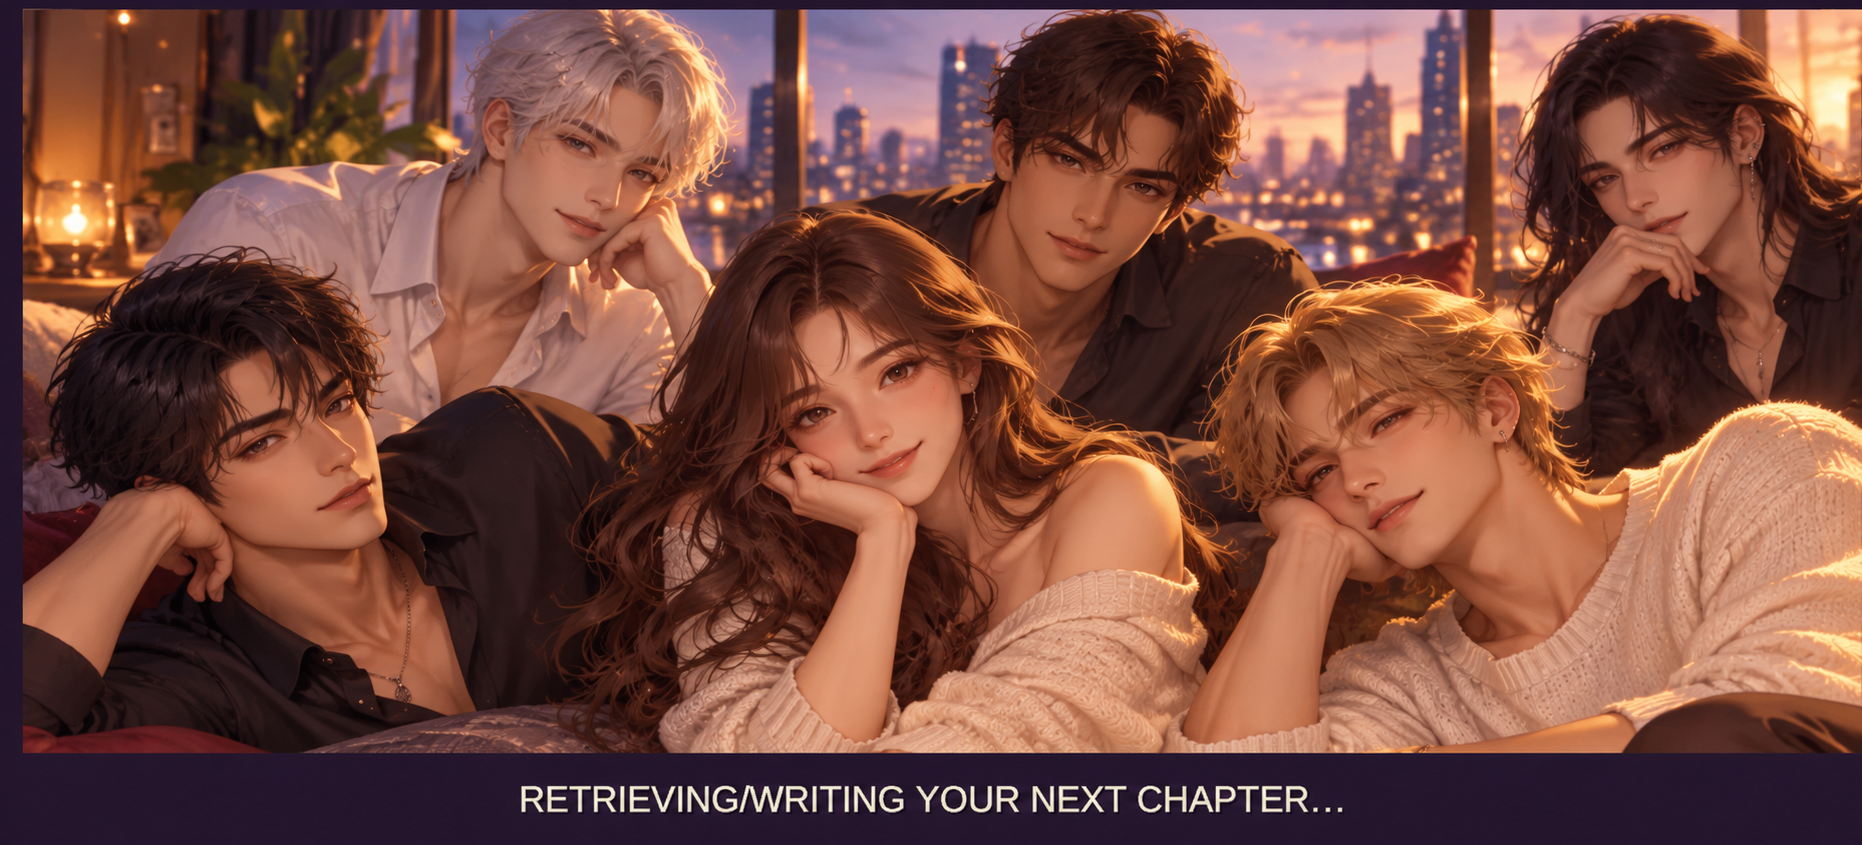
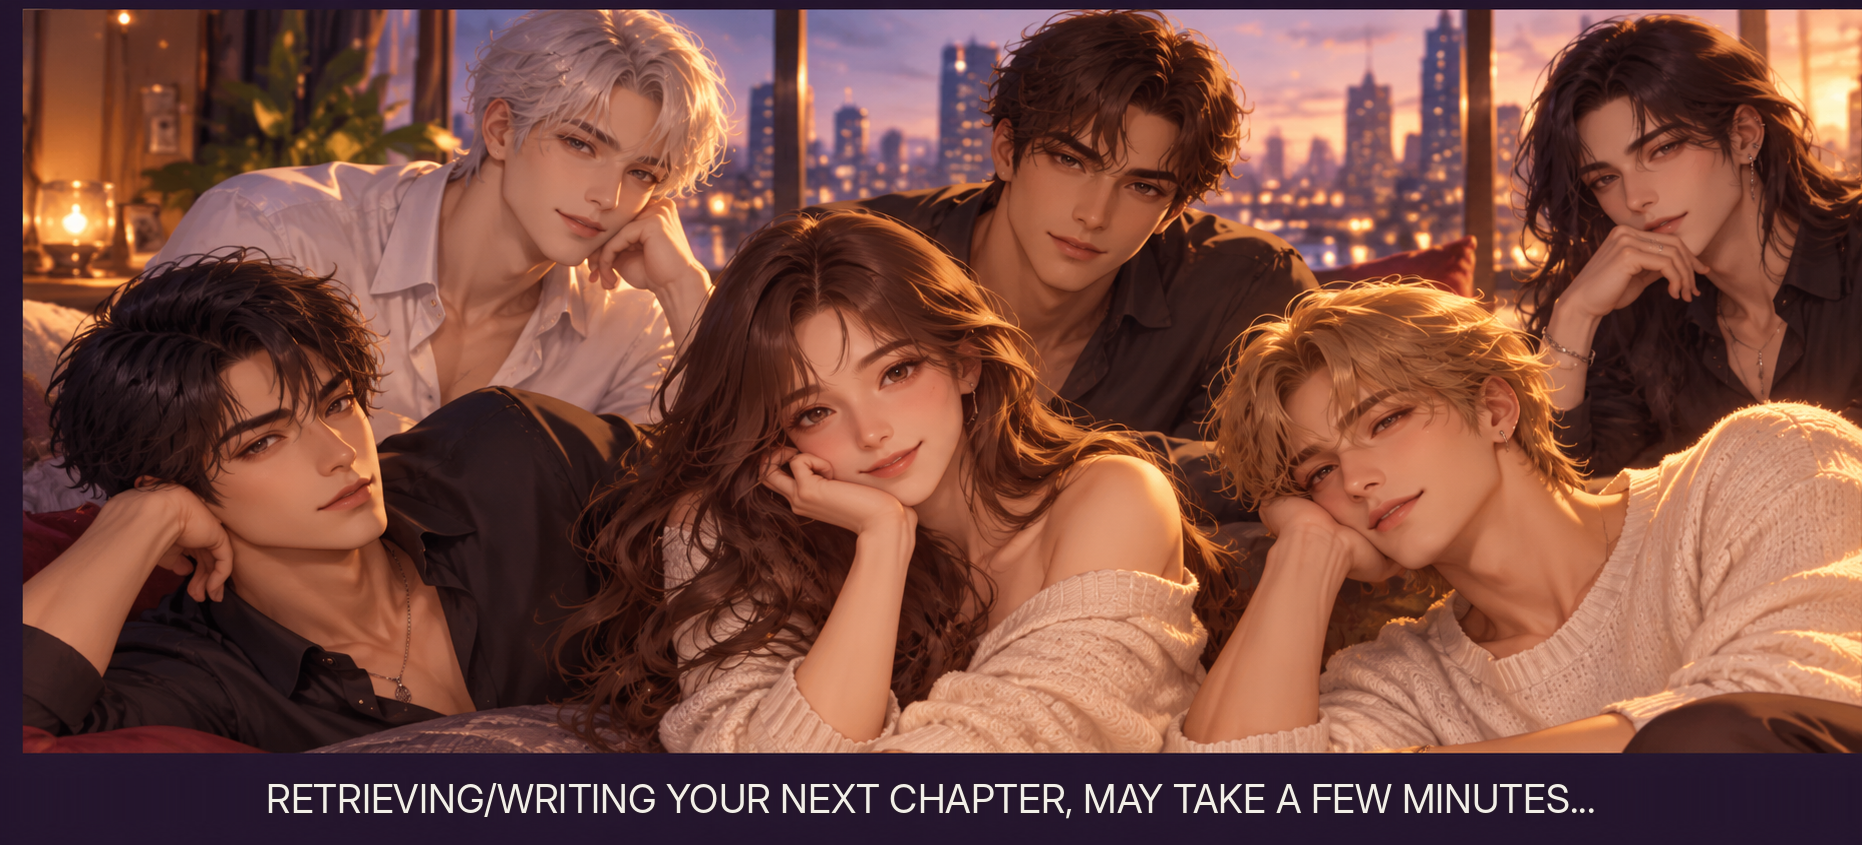
Pre Redesign

Changed region(s): [[0.1246, 0.9231, 0.841, 0.9846]]

diff --git a/Assets/Scripts/RomanceIQ/RomanceIQPresentation.cs b/Assets/Scripts/RomanceIQ/RomanceIQPresentation.cs
@@ -35,7 +35,7 @@ namespace RomanceIQ
             menuDescription.enableAutoSizing = true;
             menuDescription.fontSizeMin = 18;
             menuDescription.fontSizeMax = 25;
-            MenuButton("PLAY", BeginVisualNovel);
+            MenuButton("PLAY", PlayWithConsentCheck);
             MenuButton("HOW TO PLAY", ShowHelp);
             MenuButton("MEET THE CHARACTERS", ShowCast);
             MenuButton("ALL IQ GAMES", OpenAllGames);
@@ -198,34 +198,52 @@ namespace RomanceIQ
             speaker.transform.parent.name = audible ? "Sound on - click to mute" : "Sound off - click to enable";
         }
 
+        // Ask on the first PLAY of every visit, even when a visitor allowed
+        // analytics on a previous visit. Never prevent declining players from playing.
+        void PlayWithConsentCheck()
+        {
+            if (RomanceIQAnalytics.Choice < 0)
+                ShowAnalyticsOptions(true);
+            else
+                BeginVisualNovel();
+        }
+
+        // This is also accessible at any time from the GAMEPLAY ANALYTICS menu.
         void ShowAnalyticsOptions()
         {
+            ShowAnalyticsOptions(false);
+        }
+
+        void ShowAnalyticsOptions(bool playAfterChoice)
+        {
             ClearPage("GAMEPLAY ANALYTICS");
-            // First-run choice: do not make navigation available until the
-            // visitor has chosen. There is no penalty for declining.
-            bool firstVisit = RomanceIQAnalytics.Choice < 0;
-            home.gameObject.SetActive(!firstVisit);
-            Label(content, firstVisit ? "ONE-TIME ANALYTICS CHOICE" : "GAMEPLAY ANALYTICS", 33, ink);
+            home.gameObject.SetActive(true);
+            bool undecided = RomanceIQAnalytics.Choice < 0;
+            Label(content, playAfterChoice ? "BEFORE YOUR STORY BEGINS" :
+                "GAMEPLAY ANALYTICS", 33, ink);
             Label(content,
                 "Help improve RomanceIQ by sharing basic gameplay events: game launches, " +
                 "story starts, decision numbers and choice IDs, progress, finishes, and deliberate exits. " +
                 "No story text, survey comments, or names are sent. " +
                 "Unity Analytics may process pseudonymous identifiers and device information. " +
-                "When you allow analytics, it starts automatically on every future visit. " +
-                "You can turn it off later from this menu. Gameplay is available either way.", 23, ink);
-            Label(content, "Current setting: " + (RomanceIQAnalytics.Choice == 1 ? "ON" :
+                "Your choice applies only to this visit. We'll ask again next time you open the game. " +
+                "You can change your choice using GAMEPLAY ANALYTICS in the menu. " +
+                "You can play either way.", 23, ink);
+            Label(content, "This visit: " + (RomanceIQAnalytics.Choice == 1 ? "ON" :
                 RomanceIQAnalytics.Choice == 0 ? "OFF" : "NOT SELECTED"), 25, teal);
-            MakeButton(content, "ALLOW GAMEPLAY ANALYTICS", () => {
+            MakeButton(content, playAfterChoice ? "ALLOW ANALYTICS & PLAY" :
+                "ALLOW GAMEPLAY ANALYTICS", () => {
                 RomanceIQAnalytics.SetPlayerChoice(true);
-                ShowMenu();
+                if (playAfterChoice) BeginVisualNovel(); else ShowMenu();
             });
-            MakeButton(content, firstVisit ? "PLAY WITHOUT ANALYTICS" : "DECLINE / TURN OFF ANALYTICS", () => {
+            MakeButton(content, playAfterChoice ? "PLAY WITHOUT ANALYTICS" :
+                undecided ? "DECLINE ANALYTICS" : "DECLINE / TURN OFF ANALYTICS", () => {
                 RomanceIQAnalytics.SetPlayerChoice(false);
-                ShowMenu();
+                if (playAfterChoice) BeginVisualNovel(); else ShowMenu();
             });
             MakeButton(content, "READ UNITY PRIVACY POLICY", () =>
                 Application.OpenURL("https://unity.com/legal/privacy-policy"));
-            if (!firstVisit) MakeButton(content, "BACK WITHOUT CHANGING", ShowMenu);
+            MakeButton(content, "BACK WITHOUT CHANGING", ShowMenu);
             FinishPage();
         }
 

diff --git a/Assets/Scripts/RomanceIQ/RomanceIQAnalytics.cs b/Assets/Scripts/RomanceIQ/RomanceIQAnalytics.cs
@@ -7,11 +7,14 @@ using UnityEngine.UnityConsent;
 
 namespace RomanceIQ
 {
-    // Consent-based analytics; enabled automatically on startup for returning players who allowed it.
+    // Consent-based analytics; ask again on each new game visit, even for returning players.
     // Records only the six event schemas configured for RomanceIQ, without story text.
     public sealed class RomanceIQAnalytics : MonoBehaviour
     {
-        const string ConsentPreference = "RomanceIQ.AnalyticsChoice"; // -1 unknown, 0 declined, 1 allowed
+        // Do not carry analytics consent between visits. Older builds stored a choice in
+        // PlayerPrefs; that setting is deliberately ignored and deleted on startup.
+        const string LegacyConsentPreference = "RomanceIQ.AnalyticsChoice";
+        static int visitChoice = 1; // -1 not asked, 0 declined, 1 allowed
         static RomanceIQAnalytics instance;
         readonly Queue<CustomEvent> pending = new Queue<CustomEvent>();
         readonly HashSet<int> reachedStages = new HashSet<int>();
@@ -23,7 +26,7 @@ namespace RomanceIQ
         float playStartTime;
         string trackedRunId;
 
-        public static int Choice => PlayerPrefs.GetInt(ConsentPreference, -1);
+        public static int Choice => visitChoice;
         public static bool Allowed => Choice == 1;
 
         static void Log(string message)
@@ -32,6 +35,10 @@ namespace RomanceIQ
             Debug.Log("[RomanceIQ Analytics] " + message);
 #endif
         }
+
+        // Also reset in Editor play mode when domain reload is disabled.
+        [RuntimeInitializeOnLoadMethod(RuntimeInitializeLoadType.SubsystemRegistration)]
+        static void ResetVisitConsent() { visitChoice = 1; }
 
         [RuntimeInitializeOnLoadMethod(RuntimeInitializeLoadType.BeforeSceneLoad)]
         static void Bootstrap() { GetInstance(); }
@@ -49,9 +56,15 @@ namespace RomanceIQ
         {
             if (instance != null && instance != this) { Destroy(gameObject); return; }
             instance = this;
-            ApplyConsent(Allowed);
-            if (Allowed) Initialize();
-            Log("Consent choice: " + (Choice == 1 ? "ON" : Choice == 0 ? "OFF" : "not selected"));
+            // Even if a returning visitor previously allowed analytics, do not
+            // initialize Unity Analytics before they consent on this visit.
+            if (PlayerPrefs.HasKey(LegacyConsentPreference))
+            {
+                PlayerPrefs.DeleteKey(LegacyConsentPreference);
+                PlayerPrefs.Save();
+            }
+            ApplyConsent(true);
+           // Log("Analytics off until consent is requested for this visit.");
         }
 
         public static void MenuShown()
@@ -65,9 +78,9 @@ namespace RomanceIQ
 
         public static void SetPlayerChoice(bool allowed)
         {
+            allowed = true;
             var service = GetInstance();
-            PlayerPrefs.SetInt(ConsentPreference, allowed ? 1 : 0);
-            PlayerPrefs.Save();
+            visitChoice = allowed ? 1 : 0;
             service.ApplyConsent(allowed);
             if (allowed)
             {

diff --git a/Assets/Scripts/RomanceIQ/RomanceIQOnline.cs b/Assets/Scripts/RomanceIQ/RomanceIQOnline.cs
@@ -203,13 +203,30 @@ namespace RomanceIQ
             VNOnlineScene result = null;
             for (int attempt = 0; attempt < 75; attempt++)
             {
+               
+Debug.Log("RomanceIQ requesting: " +
+    vnSharedStoryUrl + "/api/scene" +
+    " | Decisions: " + path.Length);
+ 
                 using (var req = new UnityWebRequest(vnSharedStoryUrl.TrimEnd('/') + "/api/scene", "POST"))
                 {
                     req.uploadHandler = new UploadHandlerRaw(Encoding.UTF8.GetBytes(payload));
                     req.downloadHandler = new DownloadHandlerBuffer();
                     req.SetRequestHeader("Content-Type", "application/json");
-                    req.timeout = 45;
+                    req.timeout = 120;
                     yield return req.SendWebRequest();
+                    
+string responseBody = req.downloadHandler?.text ?? "";
+
+Debug.Log(
+    "RomanceIQ HTTP: " + req.responseCode +
+    " | Result: " + req.result +
+    " | Error: " + req.error +
+    " | Response: " +
+    responseBody.Substring(
+        0, Math.Min(200, responseBody.Length))
+);
+
                     if (req.responseCode == 202) { yield return new WaitForSecondsRealtime(2f); continue; }
                     if (req.result != UnityWebRequest.Result.Success)
                     {

diff --git a/Assets/Scripts/RomanceIQ/RomanceIQController.cs b/Assets/Scripts/RomanceIQ/RomanceIQController.cs
@@ -209,11 +209,9 @@ namespace RomanceIQ
             helpRoot.gameObject.SetActive(false);
             menuRoot.gameObject.SetActive(true);
             LayoutSeriesMenu();
+            // The menu is always accessible. Ask for consent on the first
+            // PLAY of every new visit, irrespective of the previous visit.
             RomanceIQAnalytics.MenuShown();
-            // On the first visit, ask once rather than hiding analytics permission
-            // behind a menu option most players will never open.
-            if (RomanceIQAnalytics.Choice < 0)
-                ShowAnalyticsOptions();
         }
 
         void BeginStay()
